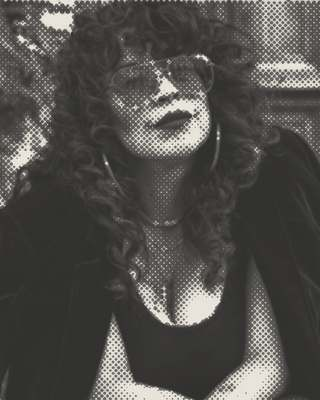
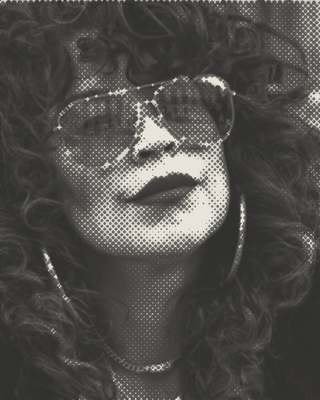
Hero wall: crop photo to face only and show it once

diff --git a/site/index.html b/site/index.html
@@ -1598,7 +1598,7 @@ footer details li a{display:inline-block;padding:6px 0}
       <figure class="ct" style="--edge:#DF5416;--tear:polygon(0% 0%,100% 0%,98.4% 8.3%,98.8% 16.7%,97.8% 25.0%,99.1% 33.3%,99.7% 41.7%,98.5% 50.0%,98.8% 58.3%,98.2% 66.7%,99.2% 75.0%,97.8% 83.3%,98.8% 91.7%,100% 100%,91.7% 99.4%,83.3% 99.0%,75.0% 99.4%,66.7% 98.5%,58.3% 98.1%,50.0% 98.2%,41.7% 99.5%,33.3% 99.5%,25.0% 99.5%,16.7% 97.8%,8.3% 99.5%,0% 100%);--r:-1.3deg"><img src="people/ht/john.jpg" alt="" width="320" height="400"></figure>
       <figure class="ct" style="--edge:#B9A3E3;--tear:polygon(0% 0%,100% 0%,99.2% 8.3%,97.9% 16.7%,99.9% 25.0%,99.8% 33.3%,97.6% 41.7%,98.0% 50.0%,99.7% 58.3%,98.9% 66.7%,97.8% 75.0%,98.0% 83.3%,99.1% 91.7%,100% 100%,91.7% 98.8%,83.3% 98.4%,75.0% 98.3%,66.7% 98.0%,58.3% 98.5%,50.0% 99.2%,41.7% 98.0%,33.3% 99.3%,25.0% 98.5%,16.7% 98.4%,8.3% 99.3%,0% 100%);--r:-0.5deg"><img src="people/ht/wendy.jpg" alt="" width="320" height="400"></figure>
       <figure class="ct" style="--edge:#F3EEE4;--tear:polygon(0% 0%,100% 0%,98.4% 8.3%,98.6% 16.7%,98.5% 25.0%,99.0% 33.3%,99.5% 41.7%,98.2% 50.0%,99.4% 58.3%,98.1% 66.7%,98.1% 75.0%,97.6% 83.3%,99.7% 91.7%,100% 100%,91.7% 99.7%,83.3% 98.7%,75.0% 98.5%,66.7% 99.1%,58.3% 99.8%,50.0% 99.5%,41.7% 98.0%,33.3% 99.4%,25.0% 98.3%,16.7% 98.2%,8.3% 98.7%,0% 100%);--r:-1.7deg"><img src="people/ht/new4.jpg" alt="" width="320" height="400"></figure>
-      <figure class="ct" style="--edge:#DF5416;--tear:polygon(0% 0%,100% 0%,99.5% 8.3%,98.1% 16.7%,98.7% 25.0%,97.7% 33.3%,98.8% 41.7%,97.6% 50.0%,99.6% 58.3%,98.0% 66.7%,98.3% 75.0%,99.5% 83.3%,99.0% 91.7%,100% 100%,91.7% 97.9%,83.3% 99.1%,75.0% 98.9%,66.7% 99.5%,58.3% 97.9%,50.0% 100.0%,41.7% 98.7%,33.3% 98.4%,25.0% 98.8%,16.7% 98.0%,8.3% 99.2%,0% 100%);--r:-0.6deg"><i class="tape"></i><img src="people/ht/new4.jpg" alt="" width="320" height="400"></figure>
+      <figure class="ct" style="--edge:#DF5416;--tear:polygon(0% 0%,100% 0%,99.5% 8.3%,98.1% 16.7%,98.7% 25.0%,97.7% 33.3%,98.8% 41.7%,97.6% 50.0%,99.6% 58.3%,98.0% 66.7%,98.3% 75.0%,99.5% 83.3%,99.0% 91.7%,100% 100%,91.7% 97.9%,83.3% 99.1%,75.0% 98.9%,66.7% 99.5%,58.3% 97.9%,50.0% 100.0%,41.7% 98.7%,33.3% 98.4%,25.0% 98.8%,16.7% 98.0%,8.3% 99.2%,0% 100%);--r:-0.6deg"><i class="tape"></i><img src="people/ht/ref4.jpg" alt="" width="320" height="400"></figure>
       <figure class="ct" style="--edge:#F3EEE4;--tear:polygon(0% 0%,100% 0%,97.6% 8.3%,99.8% 16.7%,97.9% 25.0%,98.1% 33.3%,97.8% 41.7%,99.7% 50.0%,99.4% 58.3%,99.1% 66.7%,99.8% 75.0%,99.3% 83.3%,97.7% 91.7%,100% 100%,91.7% 97.8%,83.3% 99.4%,75.0% 98.3%,66.7% 100.0%,58.3% 98.8%,50.0% 99.9%,41.7% 99.2%,33.3% 99.0%,25.0% 99.3%,16.7% 97.8%,8.3% 99.5%,0% 100%);--r:1.3deg"><img src="people/ht/adjoa.jpg" alt="" width="320" height="400"></figure>
       <figure class="ct" style="--edge:#B9A3E3;--tear:polygon(0% 0%,100% 0%,99.0% 8.3%,99.9% 16.7%,98.7% 25.0%,98.4% 33.3%,97.8% 41.7%,98.9% 50.0%,97.6% 58.3%,97.8% 66.7%,98.8% 75.0%,98.4% 83.3%,98.9% 91.7%,100% 100%,91.7% 97.9%,83.3% 98.6%,75.0% 98.3%,66.7% 98.2%,58.3% 98.9%,50.0% 98.7%,41.7% 98.0%,33.3% 98.7%,25.0% 99.6%,16.7% 98.8%,8.3% 97.8%,0% 100%);--r:-0.9deg"><img src="people/ht/harry.jpg" alt="" width="320" height="400"></figure>
       <figure class="ct" style="--edge:#F3EEE4;--tear:polygon(0% 0%,100% 0%,98.4% 8.3%,97.7% 16.7%,97.9% 25.0%,98.5% 33.3%,99.3% 41.7%,99.7% 50.0%,98.7% 58.3%,99.3% 66.7%,98.8% 75.0%,99.0% 83.3%,99.7% 91.7%,100% 100%,91.7% 100.0%,83.3% 99.1%,75.0% 98.7%,66.7% 99.9%,58.3% 97.8%,50.0% 98.7%,41.7% 97.6%,33.3% 99.7%,25.0% 99.8%,16.7% 99.6%,8.3% 97.8%,0% 100%);--r:-0.1deg"><img src="people/ht/new1.jpg" alt="" width="320" height="400"></figure>
@@ -1610,7 +1610,7 @@ footer details li a{display:inline-block;padding:6px 0}
       <figure class="ct" style="--edge:#B9A3E3;--tear:polygon(0% 0%,100% 0%,99.2% 8.3%,98.2% 16.7%,99.3% 25.0%,99.7% 33.3%,98.2% 41.7%,99.6% 50.0%,97.8% 58.3%,99.7% 66.7%,99.2% 75.0%,98.7% 83.3%,99.1% 91.7%,100% 100%,91.7% 99.0%,83.3% 99.6%,75.0% 99.5%,66.7% 99.6%,58.3% 98.1%,50.0% 99.3%,41.7% 99.8%,33.3% 97.9%,25.0% 97.6%,16.7% 97.8%,8.3% 99.9%,0% 100%);--r:-0.8deg"><img src="people/ht/new3.jpg" alt="" width="320" height="400"></figure>
       <figure class="ct" style="--edge:#F3EEE4;--tear:polygon(0% 0%,100% 0%,97.7% 8.3%,99.3% 16.7%,99.5% 25.0%,99.0% 33.3%,99.6% 41.7%,99.8% 50.0%,98.8% 58.3%,98.8% 66.7%,99.5% 75.0%,99.7% 83.3%,99.1% 91.7%,100% 100%,91.7% 98.6%,83.3% 99.7%,75.0% 99.7%,66.7% 99.4%,58.3% 98.9%,50.0% 98.8%,41.7% 98.2%,33.3% 98.4%,25.0% 100.0%,16.7% 99.4%,8.3% 99.3%,0% 100%);--r:-0.6deg"><img src="people/ht/carisa.jpg" alt="" width="320" height="400"></figure>
       <figure class="ct" style="--edge:#DF5416;--tear:polygon(0% 0%,100% 0%,98.7% 8.3%,99.0% 16.7%,98.8% 25.0%,98.0% 33.3%,99.8% 41.7%,98.9% 50.0%,98.5% 58.3%,98.7% 66.7%,98.4% 75.0%,97.7% 83.3%,99.1% 91.7%,100% 100%,91.7% 97.7%,83.3% 99.1%,75.0% 97.7%,66.7% 97.9%,58.3% 98.7%,50.0% 98.6%,41.7% 99.0%,33.3% 98.8%,25.0% 99.3%,16.7% 99.0%,8.3% 99.3%,0% 100%);--r:0.1deg"><img src="people/ht/ref7.jpg" alt="" width="320" height="400"></figure>
-      <figure class="ct" style="--edge:#B9A3E3;--tear:polygon(0% 0%,100% 0%,98.8% 8.3%,99.4% 16.7%,97.8% 25.0%,98.4% 33.3%,98.2% 41.7%,99.9% 50.0%,98.1% 58.3%,98.6% 66.7%,98.5% 75.0%,99.0% 83.3%,98.4% 91.7%,100% 100%,91.7% 99.9%,83.3% 99.2%,75.0% 99.0%,66.7% 98.6%,58.3% 98.3%,50.0% 99.2%,41.7% 98.1%,33.3% 99.5%,25.0% 98.3%,16.7% 99.4%,8.3% 98.2%,0% 100%);--r:-1.6deg"><img src="people/ht/new4.jpg" alt="" width="320" height="400"></figure>
+      <figure class="ct" style="--edge:#B9A3E3;--tear:polygon(0% 0%,100% 0%,98.8% 8.3%,99.4% 16.7%,97.8% 25.0%,98.4% 33.3%,98.2% 41.7%,99.9% 50.0%,98.1% 58.3%,98.6% 66.7%,98.5% 75.0%,99.0% 83.3%,98.4% 91.7%,100% 100%,91.7% 99.9%,83.3% 99.2%,75.0% 99.0%,66.7% 98.6%,58.3% 98.3%,50.0% 99.2%,41.7% 98.1%,33.3% 99.5%,25.0% 98.3%,16.7% 99.4%,8.3% 98.2%,0% 100%);--r:-1.6deg"><img src="people/ht/ref5.jpg" alt="" width="320" height="400"></figure>
       <figure class="ct" style="--edge:#F3EEE4;--tear:polygon(0% 0%,100% 0%,99.8% 8.3%,98.1% 16.7%,97.8% 25.0%,99.7% 33.3%,97.7% 41.7%,99.4% 50.0%,98.3% 58.3%,99.9% 66.7%,99.0% 75.0%,99.7% 83.3%,97.9% 91.7%,100% 100%,91.7% 99.1%,83.3% 99.6%,75.0% 99.1%,66.7% 99.7%,58.3% 99.0%,50.0% 98.6%,41.7% 98.5%,33.3% 98.4%,25.0% 99.1%,16.7% 98.2%,8.3% 98.0%,0% 100%);--r:-1.3deg"><img src="people/ht/ref8.jpg" alt="" width="320" height="400"></figure>
       <figure class="ct" style="--edge:#DF5416;--tear:polygon(0% 0%,100% 0%,99.3% 8.3%,99.7% 16.7%,98.8% 25.0%,98.8% 33.3%,99.3% 41.7%,98.8% 50.0%,98.0% 58.3%,99.3% 66.7%,98.5% 75.0%,98.3% 83.3%,98.3% 91.7%,100% 100%,91.7% 99.5%,83.3% 99.3%,75.0% 99.4%,66.7% 97.7%,58.3% 98.8%,50.0% 98.4%,41.7% 99.5%,33.3% 98.4%,25.0% 98.5%,16.7% 100.0%,8.3% 99.4%,0% 100%);--r:-1.7deg"><i class="tape"></i><img src="people/ht/ref9.jpg" alt="" width="320" height="400"></figure>
       <figure class="ct" style="--edge:#F3EEE4;--tear:polygon(0% 0%,100% 0%,99.9% 8.3%,99.5% 16.7%,99.3% 25.0%,98.2% 33.3%,97.8% 41.7%,99.6% 50.0%,99.4% 58.3%,97.6% 66.7%,98.8% 75.0%,99.2% 83.3%,99.2% 91.7%,100% 100%,91.7% 98.8%,83.3% 99.7%,75.0% 97.9%,66.7% 98.1%,58.3% 98.9%,50.0% 98.0%,41.7% 98.0%,33.3% 98.2%,25.0% 98.9%,16.7% 98.2%,8.3% 99.1%,0% 100%);--r:-1.3deg"><img src="people/ht/ref10.jpg" alt="" width="320" height="400"></figure>
@@ -1627,7 +1627,7 @@ footer details li a{display:inline-block;padding:6px 0}
       <figure class="ct" style="--edge:#F3EEE4;--tear:polygon(0% 0%,100% 0%,97.7% 8.3%,99.3% 16.7%,99.5% 25.0%,99.0% 33.3%,99.6% 41.7%,99.8% 50.0%,98.8% 58.3%,98.8% 66.7%,99.5% 75.0%,99.7% 83.3%,99.1% 91.7%,100% 100%,91.7% 98.6%,83.3% 99.7%,75.0% 99.7%,66.7% 99.4%,58.3% 98.9%,50.0% 98.8%,41.7% 98.2%,33.3% 98.4%,25.0% 100.0%,16.7% 99.4%,8.3% 99.3%,0% 100%);--r:-0.6deg"><img src="people/ht/carisa.jpg" alt="" width="320" height="400"></figure>
       <figure class="ct" style="--edge:#DF5416;--tear:polygon(0% 0%,100% 0%,98.7% 8.3%,99.0% 16.7%,98.8% 25.0%,98.0% 33.3%,99.8% 41.7%,98.9% 50.0%,98.5% 58.3%,98.7% 66.7%,98.4% 75.0%,97.7% 83.3%,99.1% 91.7%,100% 100%,91.7% 97.7%,83.3% 99.1%,75.0% 97.7%,66.7% 97.9%,58.3% 98.7%,50.0% 98.6%,41.7% 99.0%,33.3% 98.8%,25.0% 99.3%,16.7% 99.0%,8.3% 99.3%,0% 100%);--r:0.1deg"><img src="people/ht/ref2.jpg" alt="" width="320" height="400"></figure>
       <figure class="ct" style="--edge:#B9A3E3;--tear:polygon(0% 0%,100% 0%,98.8% 8.3%,99.4% 16.7%,97.8% 25.0%,98.4% 33.3%,98.2% 41.7%,99.9% 50.0%,98.1% 58.3%,98.6% 66.7%,98.5% 75.0%,99.0% 83.3%,98.4% 91.7%,100% 100%,91.7% 99.9%,83.3% 99.2%,75.0% 99.0%,66.7% 98.6%,58.3% 98.3%,50.0% 99.2%,41.7% 98.1%,33.3% 99.5%,25.0% 98.3%,16.7% 99.4%,8.3% 98.2%,0% 100%);--r:-1.6deg"><img src="people/ht/new1.jpg" alt="" width="320" height="400"></figure>
-      <figure class="ct" style="--edge:#F3EEE4;--tear:polygon(0% 0%,100% 0%,99.8% 8.3%,98.1% 16.7%,97.8% 25.0%,99.7% 33.3%,97.7% 41.7%,99.4% 50.0%,98.3% 58.3%,99.9% 66.7%,99.0% 75.0%,99.7% 83.3%,97.9% 91.7%,100% 100%,91.7% 99.1%,83.3% 99.6%,75.0% 99.1%,66.7% 99.7%,58.3% 99.0%,50.0% 98.6%,41.7% 98.5%,33.3% 98.4%,25.0% 99.1%,16.7% 98.2%,8.3% 98.0%,0% 100%);--r:-1.3deg"><img src="people/ht/new4.jpg" alt="" width="320" height="400"></figure>
+      <figure class="ct" style="--edge:#F3EEE4;--tear:polygon(0% 0%,100% 0%,99.8% 8.3%,98.1% 16.7%,97.8% 25.0%,99.7% 33.3%,97.7% 41.7%,99.4% 50.0%,98.3% 58.3%,99.9% 66.7%,99.0% 75.0%,99.7% 83.3%,97.9% 91.7%,100% 100%,91.7% 99.1%,83.3% 99.6%,75.0% 99.1%,66.7% 99.7%,58.3% 99.0%,50.0% 98.6%,41.7% 98.5%,33.3% 98.4%,25.0% 99.1%,16.7% 98.2%,8.3% 98.0%,0% 100%);--r:-1.3deg"><img src="people/ht/ref6.jpg" alt="" width="320" height="400"></figure>
       <figure class="ct" style="--edge:#DF5416;--tear:polygon(0% 0%,100% 0%,99.3% 8.3%,99.7% 16.7%,98.8% 25.0%,98.8% 33.3%,99.3% 41.7%,98.8% 50.0%,98.0% 58.3%,99.3% 66.7%,98.5% 75.0%,98.3% 83.3%,98.3% 91.7%,100% 100%,91.7% 99.5%,83.3% 99.3%,75.0% 99.4%,66.7% 97.7%,58.3% 98.8%,50.0% 98.4%,41.7% 99.5%,33.3% 98.4%,25.0% 98.5%,16.7% 100.0%,8.3% 99.4%,0% 100%);--r:-1.7deg"><i class="tape"></i><img src="people/ht/ref4.jpg" alt="" width="320" height="400"></figure>
       <figure class="ct" style="--edge:#F3EEE4;--tear:polygon(0% 0%,100% 0%,99.9% 8.3%,99.5% 16.7%,99.3% 25.0%,98.2% 33.3%,97.8% 41.7%,99.6% 50.0%,99.4% 58.3%,97.6% 66.7%,98.8% 75.0%,99.2% 83.3%,99.2% 91.7%,100% 100%,91.7% 98.8%,83.3% 99.7%,75.0% 97.9%,66.7% 98.1%,58.3% 98.9%,50.0% 98.0%,41.7% 98.0%,33.3% 98.2%,25.0% 98.9%,16.7% 98.2%,8.3% 99.1%,0% 100%);--r:-1.3deg"><img src="people/ht/ref5.jpg" alt="" width="320" height="400"></figure>
       <figure class="ct" style="--edge:#B9A3E3;--tear:polygon(0% 0%,100% 0%,99.6% 8.3%,98.0% 16.7%,98.6% 25.0%,99.3% 33.3%,98.2% 41.7%,98.0% 50.0%,99.6% 58.3%,98.4% 66.7%,98.6% 75.0%,98.9% 83.3%,99.2% 91.7%,100% 100%,91.7% 98.7%,83.3% 99.0%,75.0% 98.6%,66.7% 98.0%,58.3% 98.9%,50.0% 98.0%,41.7% 100.0%,33.3% 99.3%,25.0% 97.8%,16.7% 98.6%,8.3% 98.3%,0% 100%);--r:-0.0deg"><img src="people/ht/javaree.jpg" alt="" width="320" height="400"></figure>
